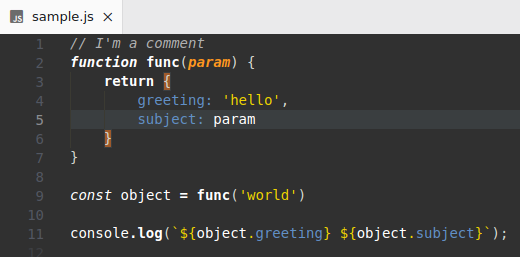
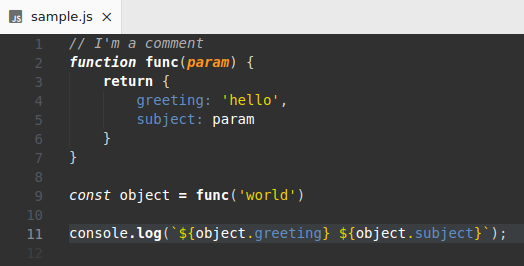
readme fix

diff --git a/README.md b/README.md
@@ -1,25 +1,27 @@
 # Gedit Oblivion x Atom One Light
 
-Code dark syntax theme based on the [Gedit Oblivion theme](https://github.com/mig/gedit-themes/blob/master/oblivion.xml), with a light UI based on [Atom One Light](https://github.com/atom/one-light-ui).
-
-The panel and settings pages are inheriting general editor colours so are dark, which think it's ok but any thoughts/ideas welcome, otherwise maybe possible with features suggested in [#25986](https://github.com/microsoft/vscode/issues/25986).
-
-Sources:
-
-- [atom gedit oblivion](https://github.com/robertfoss/atom_gedit_oblivion)
-- [atom one light](https://github.com/atom/one-light-ui)
-- [atom one light vscode](https://github.com/akamud/vscode-theme-onelight)
+[VSCode](https://code.visualstudio.com/) dark syntax theme based on the [Gedit Oblivion theme](https://github.com/mig/gedit-themes/blob/master/oblivion.xml), with a light UI based on [Atom One Light UI theme](https://github.com/atom/one-light-ui).
 
 ![demo](https://github.com/tom-power/gedit-oblivion-x-atom-one-light/blob/master/assets/sample.png)
 
+> **Note**  
+> The settings pages and the panel are inheriting editor colours so are dark, which I think is ok, though inconsistent. Any thoughts/ideas welcome, otherwise maybe possible with features suggested in [#25986](https://github.com/microsoft/vscode/issues/25986).
+
 ### Installation
 
-Install [vsce](https://github.com/microsoft/vscode-vsce), if you're on macOS install [vscode cli](https://code.visualstudio.com/docs/setup/mac#_launching-from-the-command-line) then:
+Install [vsce](https://github.com/microsoft/vscode-vsce), if you're on macOS install [VSCode shell command](https://code.visualstudio.com/docs/setup/mac#_launching-from-the-command-line) then:
 
 ```
 git clone https://github.com/tom-power/gedit-oblivion-x-atom-one-light
-cd ./gedit-oblivion-x-atom-one-lightt
+cd ./gedit-oblivion-x-atom-one-light
 sh/install.sh
 ```
 
-and reload vscode.
+and reload VSCode.
+
+#### Sources:
+
+- [Atom Gedit Oblivion](https://github.com/robertfoss/atom_gedit_oblivion)
+- [Atom One Light UI theme](https://github.com/atom/one-light-ui)
+- [Atom One Light VSCode](https://github.com/akamud/vscode-theme-onelight)
+- [Oblivion VSCode](https://github.com/Educorreia932/Oblivion-Theme)
